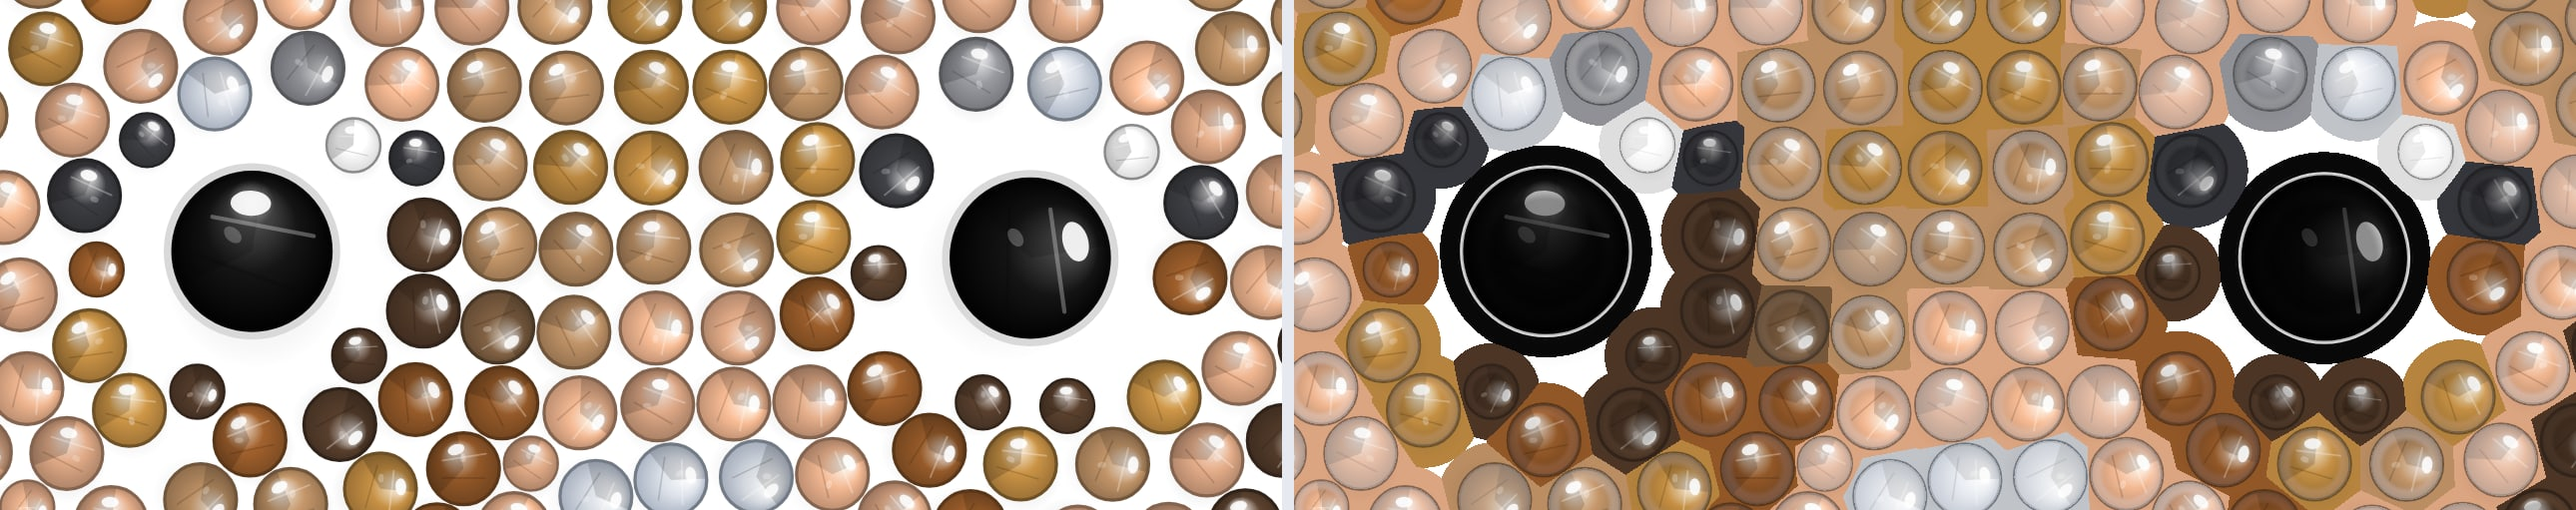
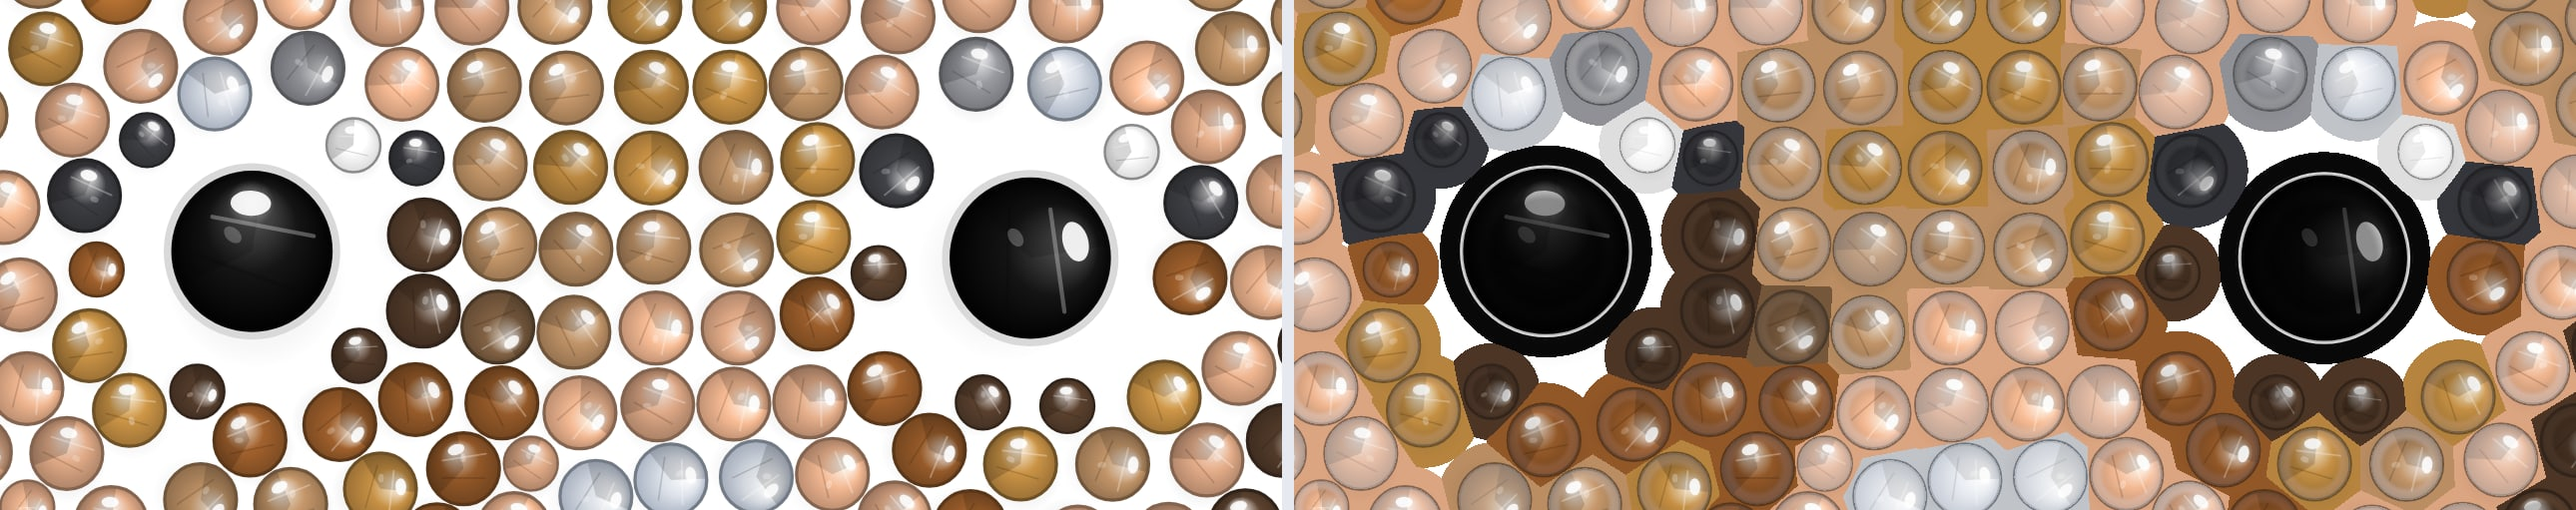
IS-06: tinted comparison re-rendered with today's DEFAULT (warm_shadow on)

Changed region(s): [[0.5891, 0.7339, 0.6512, 0.9393], [0.093, 0.7632, 0.155, 0.91]]

diff --git a/docs/IS-05-tinted-comparison.md b/docs/IS-05-tinted-comparison.md
@@ -8,7 +8,9 @@ stone's edge, a large Jet stone's light rim as wide as an SS6 stone's), and each
 by today's strass service from its saved AI image (`services/strass/scripts/is05c_runs.py`, rules
 `DEFAULT`: soft outlines off, plausible pupils, the one plausible pair kept of more than two, colours
 read at the delivered stones, no iris rings around a person's pupils, skin colours read from the inner
-60 % of each stone).
+60 % of each stone). Re-rendered again for IS-06 (21 Oct 2026) with today's `DEFAULT`, which since
+IS-05d also has `warm_shadow` on (3 ΔE): stones, sizes and natural sizes are unchanged, only some skin
+colours differ (12 of the images).
 
 Each row shows four images side by side:
 
